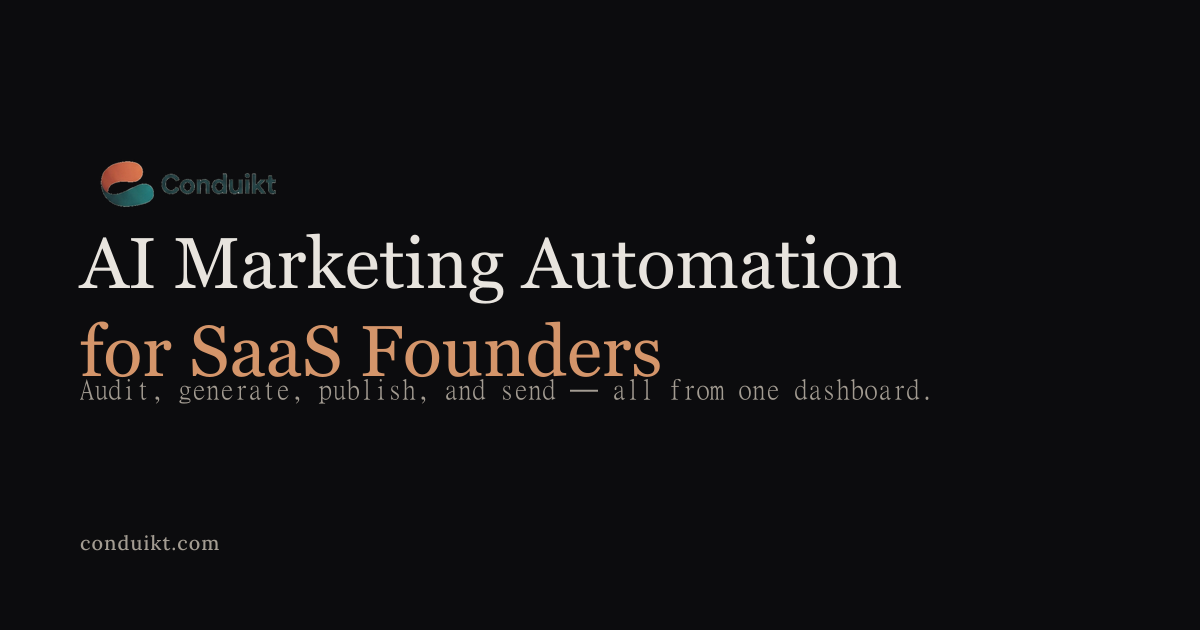
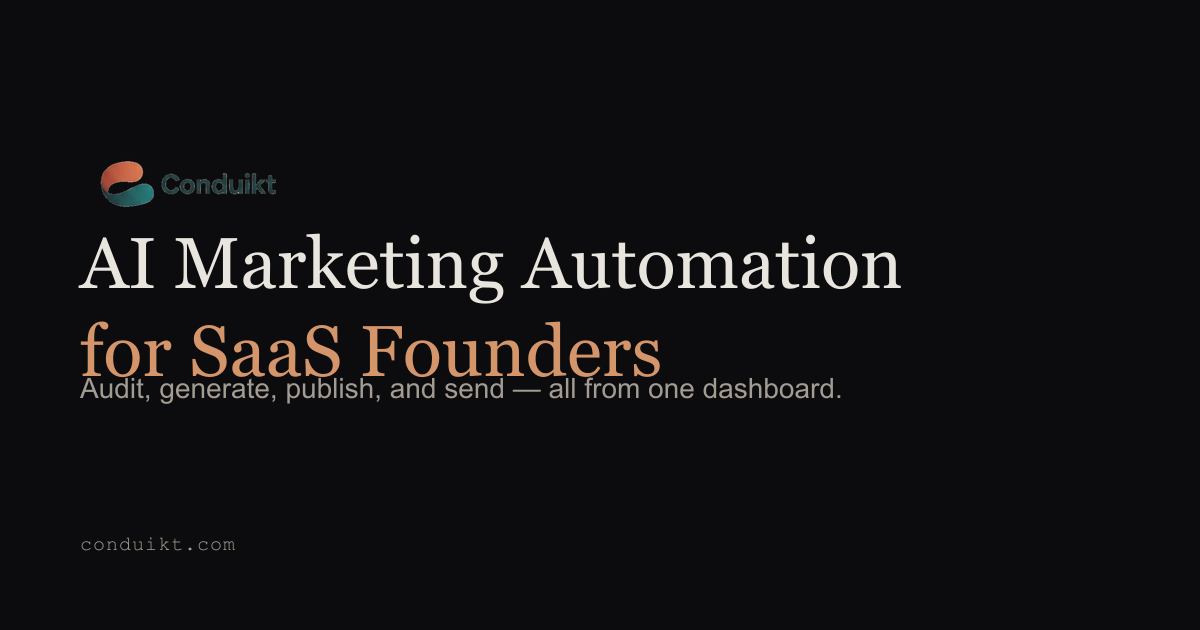
feat(branding): brand color in generated emails + real fonts in OG image
Two polish wins flagged after the V1 ship.

1. Brand accent color flows into AI-generated emails

The Brand Kit primary color (profiles.brand_primary_color, default
#D4956A) was being ignored by the email-sequence agent. Generated
sequences came out with whatever colors Claude felt like — not the
user's brand. Now plumbed end-to-end:

- ProjectContext gains brandPrimaryColor (typed, validated to
  #RRGGBB at build time so a malformed profile field can't poison
  the prompt).
- buildProjectContext takes an optional profile arg with
  brand_primary_color. Old callers don't break — just don't see
  the field.
- /api/ai/generate now SELECTs brand_primary_color alongside the
  plan/quota fields it already needed and passes the profile
  through to buildProjectContext.
- Email-sequence system prompt includes a full "Brand styling rules
  for body_html" section directing Claude to use the accent color
  on CTAs, links, headings, and callout borders. The rules ride
  along on every body_html generation.

The result: every generated welcome / nurture / launch email shares
the user's brand accent — CTAs in the right copper, links in the
right copper, callout borders in the right copper. Without it the
brand signal was missing from one of the highest-trust touchpoints
in marketing (the inbox).

Other agents (blog-post, copywriting, CRO, etc.) now have access to
context.brandPrimaryColor too. Wiring them up is a follow-up — this
[…]

Changed region(s): [[0.0617, 0.6032, 0.7708, 0.6635], [0.0617, 0.8444, 0.185, 0.8746]]

diff --git a/src/lib/ai/agents/email-sequence.ts b/src/lib/ai/agents/email-sequence.ts
@@ -8,7 +8,9 @@ export const emailSequenceSkill: SkillConfig = {
   model: "claude-sonnet-4-6",
   maxTokens: 6000,
 
-  buildSystemPrompt: (context: ProjectContext) => `
+  buildSystemPrompt: (context: ProjectContext) => {
+    const accent = context.brandPrimaryColor ?? "#D4956A";
+    return `
 You are an email marketing expert who creates high-performing automated email sequences.
 
 ## Project Context
@@ -17,6 +19,7 @@ You are an email marketing expert who creates high-performing automated email se
 - Value proposition: ${context.valueProposition || "Not specified"}
 - Target audience: ${JSON.stringify(context.targetAudience)}
 - Brand voice: ${JSON.stringify(context.brandVoice)}
+- Brand accent color: ${accent}
 
 ## Email Principles
 1. Subject lines: specific > clever. Curiosity gap or clear benefit
@@ -27,8 +30,21 @@ You are an email marketing expert who creates high-performing automated email se
 6. Timing: space emails appropriately (not too aggressive)
 ${context.performanceContext || ""}
 
+## Brand styling rules for body_html
+Apply the brand accent color (${accent}) consistently so every email looks
+like it came from the same brand:
+- CTA button background: ${accent} with white text
+- Inline link colors in the body: ${accent}
+- Heading accent rules / underlines / bullets: ${accent}
+- Quote / highlight / callout left-borders: ${accent}
+Use inline styles (most email clients strip <style> blocks). Keep the rest
+of the email neutral — clean dark text on white background — so the accent
+reads as the brand signal, not noise.
+
 ## Rules
 - Do NOT use emojis anywhere in the output unless the user's prompt explicitly requests them.
+- Body HTML must be email-client-safe: inline styles only, table-based layout
+  for any multi-column section, no external CSS.
 
 ## Output Format
 Return valid JSON (and ONLY JSON — no markdown code fences, no explanation before or after):
@@ -42,7 +58,7 @@ Return valid JSON (and ONLY JSON — no markdown code fences, no explanation bef
       "delay_hours": number,
       "subject_line": "string",
       "preview_text": "string",
-      "body_html": "string (simple HTML email body)",
+      "body_html": "string (simple HTML email body, brand accent color ${accent} applied to CTA, links, accents)",
       "cta_text": "string",
       "cta_url": "string (placeholder)",
       "goal": "string (what this email aims to achieve)"
@@ -50,7 +66,8 @@ Return valid JSON (and ONLY JSON — no markdown code fences, no explanation bef
   ],
   "exit_conditions": ["string"]
 }
-  `.trim(),
+    `.trim();
+  },
 
   buildUserPrompt: (input: Record<string, unknown>) => `
 Create a ${input.type || "welcome"} email sequence.

diff --git a/src/lib/ai/prompt-builder.ts b/src/lib/ai/prompt-builder.ts
@@ -2,23 +2,33 @@ import type { ProjectContext } from "./agents/types";
 
 /**
  * Builds a ProjectContext from a database project record.
+ *
+ * Optional second arg `profile` carries user-level Brand Kit data. We
+ * keep it optional so callers that don't fetch the profile (older
+ * routes, internal agent invocations) don't break — those agents simply
+ * won't see the brand color and will use neutral defaults.
  */
-export function buildProjectContext(project: {
-  name: string;
-  website_url: string | null;
-  description: string | null;
-  target_audience: unknown;
-  value_proposition: string | null;
-  brand_voice: unknown;
-  competitors: unknown;
-  keywords: unknown;
-  industry?: string | null;
-  business_description?: string | null;
-  audience_pain_point?: string | null;
-  online_channels?: string[] | null;
-  brand_voice_example?: string | null;
-  primary_goal?: string | null;
-}): ProjectContext {
+export function buildProjectContext(
+  project: {
+    name: string;
+    website_url: string | null;
+    description: string | null;
+    target_audience: unknown;
+    value_proposition: string | null;
+    brand_voice: unknown;
+    competitors: unknown;
+    keywords: unknown;
+    industry?: string | null;
+    business_description?: string | null;
+    audience_pain_point?: string | null;
+    online_channels?: string[] | null;
+    brand_voice_example?: string | null;
+    primary_goal?: string | null;
+  },
+  profile?: {
+    brand_primary_color?: string | null;
+  } | null
+): ProjectContext {
   // Use onboarding industry column if available, else fall back to existing fields
   const description =
     project.business_description || project.description || undefined;
@@ -44,6 +54,14 @@ export function buildProjectContext(project: {
     };
   }
 
+  // Brand color: only forward a syntactically-plausible #RRGGBB hex.
+  // Defaults stay undefined so agents fall back to neutral styling.
+  const rawColor = profile?.brand_primary_color;
+  const brandPrimaryColor =
+    typeof rawColor === "string" && /^#[0-9a-fA-F]{6}$/.test(rawColor)
+      ? rawColor
+      : undefined;
+
   return {
     name: project.name,
     websiteUrl: project.website_url ?? "",
@@ -54,5 +72,6 @@ export function buildProjectContext(project: {
     brandVoice,
     competitors: project.competitors as ProjectContext["competitors"],
     keywords: project.keywords as ProjectContext["keywords"],
+    brandPrimaryColor,
   };
 }

diff --git a/src/app/api/ai/generate/route.ts b/src/app/api/ai/generate/route.ts
@@ -50,10 +50,12 @@ export async function POST(request: NextRequest) {
     return NextResponse.json({ error: "Not found" }, { status: 404 });
   }
 
-  // Check generation limits
+  // Check generation limits + pull Brand Kit fields for prompt context.
   const { data: profile } = await supabase
     .from("profiles")
-    .select("plan, generation_count, generation_reset_at")
+    .select(
+      "plan, generation_count, generation_reset_at, brand_primary_color"
+    )
     .eq("id", user.id)
     .single();
 
@@ -66,8 +68,8 @@ export async function POST(request: NextRequest) {
     );
   }
 
-  // Build prompts with performance context
-  const context = buildProjectContext(project);
+  // Build prompts with performance context + user's Brand Kit color.
+  const context = buildProjectContext(project, profile);
   const performanceCtx = await buildPerformanceContext(projectId, supabase);
   if (performanceCtx) {
     context.performanceContext = performanceCtx;

diff --git a/src/lib/ai/agents/types.ts b/src/lib/ai/agents/types.ts
@@ -26,6 +26,10 @@ export interface ProjectContext {
     difficulty?: number;
   }>;
   performanceContext?: string;
+  // From profiles.brand_primary_color (default #D4956A). Surfaced into
+  // agents that generate styled content (email sequences, blog posts,
+  // CRO copy) so CTAs / accents match the user's Brand Kit.
+  brandPrimaryColor?: string;
 }
 
 export interface AgentConfig {
